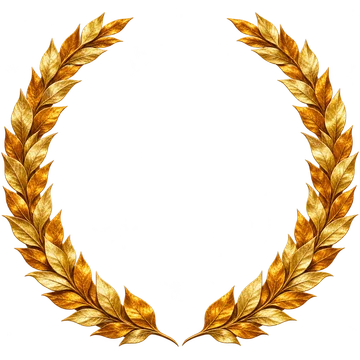
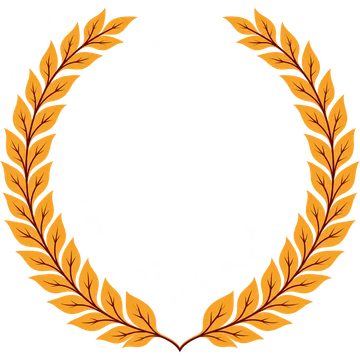
d,fj;,jdtj,rдз

Changed region(s): [[0.5194, 0.0306, 1.0, 0.9778], [0.0, 0.0306, 0.5194, 0.9778]]

diff --git a/public/css/public-card.css b/public/css/public-card.css
@@ -19967,8 +19967,7 @@ body[data-card-theme="scarlet_portrait"] #card-slug-search-results {
 
 [data-card-theme="scarlet_portrait"] .scarlet-portrait-wreath {
   inset: -18%;
-  background: url('/assets/themes/scarlet-gold-laurel.webp') center / contain no-repeat;
-  filter: drop-shadow(0 2px 3px #240e15b0);
+  background: url('/assets/themes/scarlet-gold-laurel.webp?v=2d') center / contain no-repeat;
 }
 
 [data-card-view][data-card-theme="scarlet_portrait"] .unq-ref-actions {
